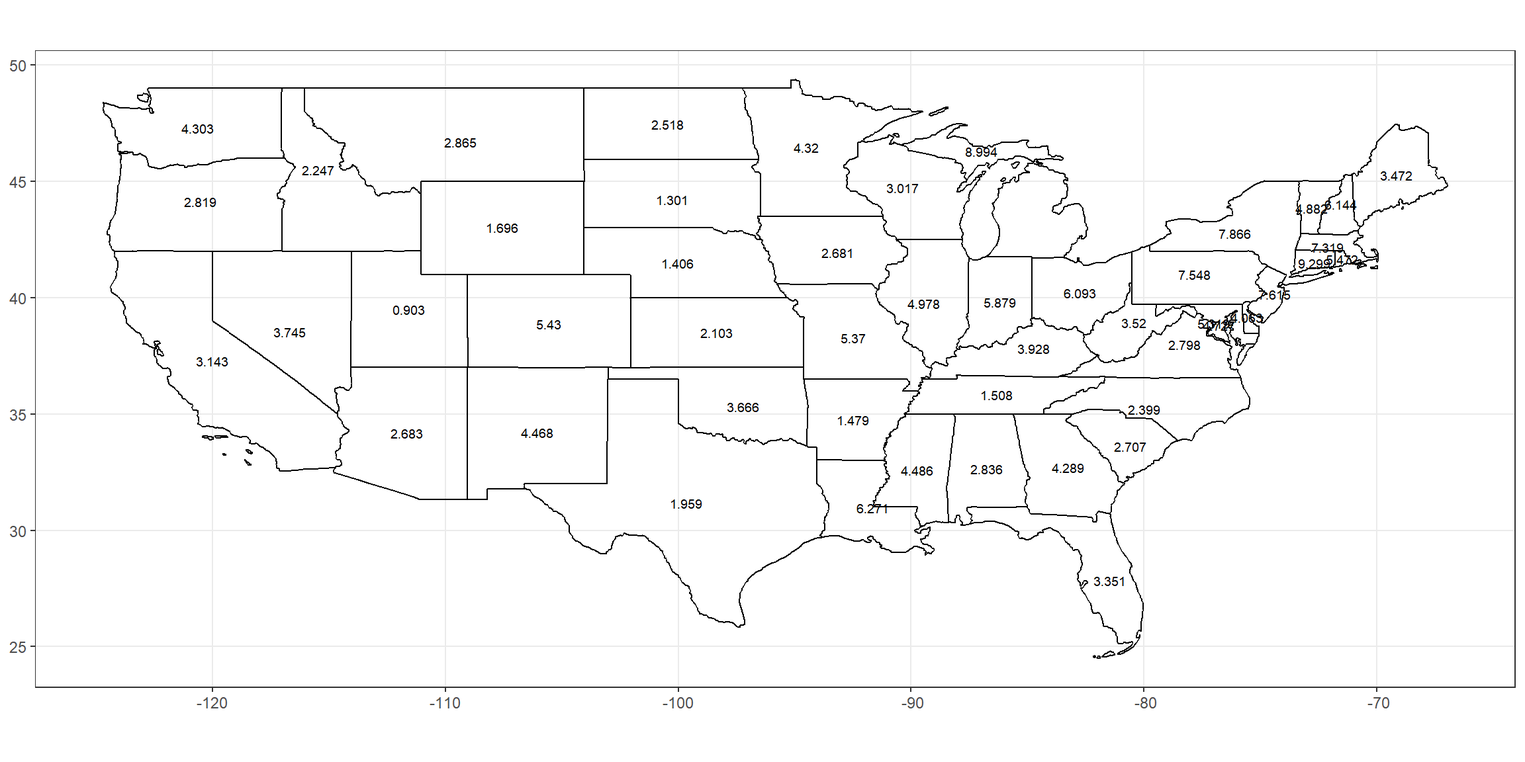
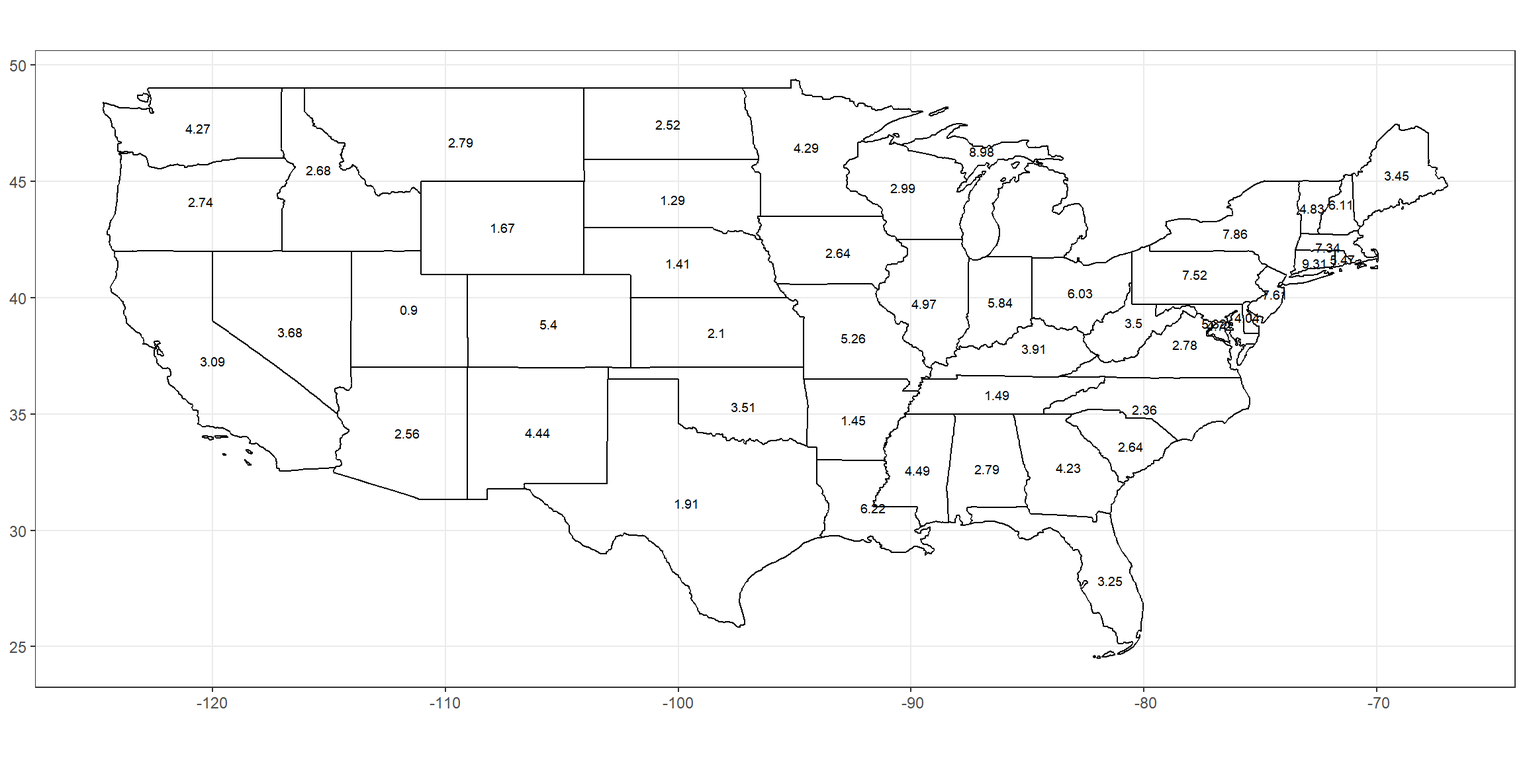
ny update 6/22

diff --git a/ny.html b/ny.html
@@ -11,7 +11,7 @@
 
 
 
-<title>NYTimes</title>
+<title>New York Times</title>
 
 <script src="site_libs/jquery-1.11.3/jquery.min.js"></script>
 <meta name="viewport" content="width=device-width, initial-scale=1" />
@@ -514,90 +514,131 @@ div.tocify {
 
 
 
-<h1 class="title toc-ignore">NYTimes</h1>
+<h1 class="title toc-ignore">New York Times</h1>
 
 </div>
 
 
+<div class="sourceCode" id="cb1"><pre class="sourceCode r"><code class="sourceCode r"><span id="cb1-1"><a href="#cb1-1"></a>tops &lt;-<span class="st"> </span>state <span class="op">%&gt;%</span><span class="st"> </span><span class="kw">filter</span>(state_abbr <span class="op">==</span><span class="st"> </span><span class="kw">c</span>(<span class="st">&quot;NY&quot;</span>, <span class="st">&quot;NJ&quot;</span>, <span class="st">&quot;MA&quot;</span>, <span class="st">&quot;RI&quot;</span>, <span class="st">&quot;CT&quot;</span>))</span>
+<span id="cb1-2"><a href="#cb1-2"></a></span>
+<span id="cb1-3"><a href="#cb1-3"></a>prop_state &lt;-<span class="st"> </span><span class="kw">left_join</span>(state_prop, states, <span class="dt">by =</span> <span class="kw">c</span>(<span class="st">&quot;state&quot;</span>, <span class="st">&quot;state_abbr&quot;</span>)) <span class="op">%&gt;%</span><span class="st"> </span></span>
+<span id="cb1-4"><a href="#cb1-4"></a><span class="st">  </span><span class="kw">filter</span>(date <span class="op">==</span><span class="st"> </span>yesterday) <span class="op">%&gt;%</span><span class="st"> </span></span>
+<span id="cb1-5"><a href="#cb1-5"></a><span class="st">  </span><span class="kw">select</span>(<span class="op">-</span><span class="st"> </span>date) <span class="op">%&gt;%</span><span class="st"> </span></span>
+<span id="cb1-6"><a href="#cb1-6"></a><span class="st">  </span><span class="kw">mutate</span>(<span class="dt">case_pop =</span> <span class="kw">round</span>(<span class="kw">as.numeric</span>(case_pop),<span class="dv">4</span>)) <span class="op">%&gt;%</span><span class="st"> </span></span>
+<span id="cb1-7"><a href="#cb1-7"></a><span class="st">  </span><span class="kw">mutate</span>(<span class="dt">case_death =</span> <span class="kw">round</span>(<span class="kw">as.numeric</span>(case_death),<span class="dv">4</span>)) <span class="op">%&gt;%</span><span class="st"> </span></span>
+<span id="cb1-8"><a href="#cb1-8"></a><span class="st">  </span><span class="kw">mutate</span>(<span class="dt">death_pop =</span> <span class="kw">round</span>(<span class="kw">as.numeric</span>(death_pop),<span class="dv">4</span>)) <span class="op">%&gt;%</span><span class="st"> </span></span>
+<span id="cb1-9"><a href="#cb1-9"></a><span class="st">  </span><span class="kw">mutate</span>(<span class="dt">death_case =</span> <span class="kw">round</span>(<span class="kw">as.numeric</span>(death_case),<span class="dv">4</span>))</span>
+<span id="cb1-10"><a href="#cb1-10"></a></span>
+<span id="cb1-11"><a href="#cb1-11"></a>ny_county_prop &lt;-<span class="st"> </span>county_prop <span class="op">%&gt;%</span><span class="st"> </span><span class="kw">filter</span>(date <span class="op">==</span><span class="st"> </span>yesterday) <span class="op">%&gt;%</span><span class="st"> </span><span class="kw">filter</span>(state_abbr <span class="op">==</span><span class="st"> &quot;NY&quot;</span>)</span>
+<span id="cb1-12"><a href="#cb1-12"></a></span>
+<span id="cb1-13"><a href="#cb1-13"></a>prop_county &lt;-<span class="st"> </span><span class="kw">left_join</span>(ny_county_prop, ny_county, <span class="dt">by =</span> <span class="kw">c</span>(<span class="st">&quot;state&quot;</span>, <span class="st">&quot;state_abbr&quot;</span>, <span class="st">&quot;county&quot;</span>)) <span class="op">%&gt;%</span><span class="st"> </span></span>
+<span id="cb1-14"><a href="#cb1-14"></a><span class="st">  </span><span class="kw">select</span>(<span class="op">-</span><span class="st"> </span>date, <span class="op">-</span><span class="st"> </span>state_abbr) <span class="op">%&gt;%</span><span class="st"> </span></span>
+<span id="cb1-15"><a href="#cb1-15"></a><span class="st">  </span><span class="kw">mutate</span>(<span class="dt">case_pop =</span> <span class="kw">round</span>(<span class="kw">as.numeric</span>(case_pop),<span class="dv">4</span>)) <span class="op">%&gt;%</span><span class="st"> </span></span>
+<span id="cb1-16"><a href="#cb1-16"></a><span class="st">  </span><span class="kw">mutate</span>(<span class="dt">case_death =</span> <span class="kw">round</span>(<span class="kw">as.numeric</span>(case_death),<span class="dv">4</span>)) <span class="op">%&gt;%</span><span class="st"> </span></span>
+<span id="cb1-17"><a href="#cb1-17"></a><span class="st">  </span><span class="kw">mutate</span>(<span class="dt">death_pop =</span> <span class="kw">round</span>(<span class="kw">as.numeric</span>(death_pop),<span class="dv">4</span>)) <span class="op">%&gt;%</span><span class="st"> </span></span>
+<span id="cb1-18"><a href="#cb1-18"></a><span class="st">  </span><span class="kw">mutate</span>(<span class="dt">death_case =</span> <span class="kw">round</span>(<span class="kw">as.numeric</span>(death_case),<span class="dv">4</span>))</span></code></pre></div>
 <div id="find-distribution" class="section level2">
 <h2>Find Distribution</h2>
-<div class="sourceCode" id="cb1"><pre class="sourceCode r"><code class="sourceCode r"><span id="cb1-1"><a href="#cb1-1"></a><span class="kw">ggplot</span>(<span class="dt">data =</span> state) <span class="op">+</span><span class="st"> </span></span>
-<span id="cb1-2"><a href="#cb1-2"></a><span class="st">  </span><span class="kw">geom_col</span>(<span class="kw">aes</span>(<span class="dt">x =</span> state, <span class="dt">y =</span> cases<span class="op">/</span>pop)) <span class="op">+</span><span class="st">  </span></span>
-<span id="cb1-3"><a href="#cb1-3"></a><span class="st">  </span><span class="kw">coord_flip</span>() <span class="op">+</span><span class="st"> </span></span>
-<span id="cb1-4"><a href="#cb1-4"></a><span class="st">  </span><span class="kw">theme_bw</span>()</span></code></pre></div>
-<p><img src="ny_files/figure-html/find_top_complete-1.png" width="1152" /></p>
 <div class="sourceCode" id="cb2"><pre class="sourceCode r"><code class="sourceCode r"><span id="cb2-1"><a href="#cb2-1"></a><span class="kw">ggplot</span>(<span class="dt">data =</span> state) <span class="op">+</span><span class="st"> </span></span>
-<span id="cb2-2"><a href="#cb2-2"></a><span class="st">  </span><span class="kw">geom_col</span>(<span class="kw">aes</span>(<span class="dt">x =</span> state, <span class="dt">y =</span> deaths<span class="op">/</span>pop)) <span class="op">+</span><span class="st"> </span></span>
+<span id="cb2-2"><a href="#cb2-2"></a><span class="st">  </span><span class="kw">geom_col</span>(<span class="kw">aes</span>(<span class="dt">x =</span> state, <span class="dt">y =</span> cases<span class="op">/</span>pop)) <span class="op">+</span><span class="st">  </span></span>
 <span id="cb2-3"><a href="#cb2-3"></a><span class="st">  </span><span class="kw">coord_flip</span>() <span class="op">+</span><span class="st"> </span></span>
 <span id="cb2-4"><a href="#cb2-4"></a><span class="st">  </span><span class="kw">theme_bw</span>()</span></code></pre></div>
+<p><img src="ny_files/figure-html/find_top_complete-1.png" width="1152" /></p>
+<div class="sourceCode" id="cb3"><pre class="sourceCode r"><code class="sourceCode r"><span id="cb3-1"><a href="#cb3-1"></a><span class="kw">ggplot</span>(<span class="dt">data =</span> state) <span class="op">+</span><span class="st"> </span></span>
+<span id="cb3-2"><a href="#cb3-2"></a><span class="st">  </span><span class="kw">geom_col</span>(<span class="kw">aes</span>(<span class="dt">x =</span> state, <span class="dt">y =</span> deaths<span class="op">/</span>pop)) <span class="op">+</span><span class="st"> </span></span>
+<span id="cb3-3"><a href="#cb3-3"></a><span class="st">  </span><span class="kw">coord_flip</span>() <span class="op">+</span><span class="st"> </span></span>
+<span id="cb3-4"><a href="#cb3-4"></a><span class="st">  </span><span class="kw">theme_bw</span>()</span></code></pre></div>
 <p><img src="ny_files/figure-html/find_top_complete-2.png" width="1152" /></p>
 <p>These plots visualize the top five states with covid cases and deaths per population.</p>
 </div>
 <div id="top-5-states" class="section level2">
 <h2>Top 5 states</h2>
 <p>The top five states are Connecticut, Massachusetts, New Jersey, New York and Rhode Island.</p>
-<div class="sourceCode" id="cb3"><pre class="sourceCode r"><code class="sourceCode r"><span id="cb3-1"><a href="#cb3-1"></a><span class="kw">ggplot</span>(<span class="dt">data =</span> tops, <span class="kw">aes</span>(<span class="dt">x =</span> date, <span class="dt">y =</span> cases, <span class="dt">color =</span> state)) <span class="op">+</span></span>
-<span id="cb3-2"><a href="#cb3-2"></a><span class="st">  </span><span class="kw">geom_line</span>() <span class="op">+</span><span class="st"> </span></span>
-<span id="cb3-3"><a href="#cb3-3"></a><span class="st">  </span><span class="kw">geom_point</span>(<span class="kw">aes</span>(<span class="dt">size =</span> <span class="st">`</span><span class="dt">pop/mil</span><span class="st">`</span>)) <span class="op">+</span><span class="st"> </span></span>
-<span id="cb3-4"><a href="#cb3-4"></a><span class="st">  </span><span class="kw">theme_bw</span>()</span></code></pre></div>
-<p><img src="ny_files/figure-html/top_5a-1.png" width="1152" /></p>
-<p>This plot shows cases with respect to date. It is colored by state and points are sized by million population.</p>
-<div class="sourceCode" id="cb4"><pre class="sourceCode r"><code class="sourceCode r"><span id="cb4-1"><a href="#cb4-1"></a><span class="kw">ggplot</span>(<span class="dt">data =</span> tops, <span class="kw">aes</span>(<span class="dt">x =</span> date, <span class="dt">y =</span> deaths, <span class="dt">color =</span> state)) <span class="op">+</span></span>
+<div class="sourceCode" id="cb4"><pre class="sourceCode r"><code class="sourceCode r"><span id="cb4-1"><a href="#cb4-1"></a><span class="kw">ggplot</span>(<span class="dt">data =</span> tops, <span class="kw">aes</span>(<span class="dt">x =</span> date, <span class="dt">y =</span> cases, <span class="dt">color =</span> state)) <span class="op">+</span></span>
 <span id="cb4-2"><a href="#cb4-2"></a><span class="st">  </span><span class="kw">geom_line</span>() <span class="op">+</span><span class="st"> </span></span>
 <span id="cb4-3"><a href="#cb4-3"></a><span class="st">  </span><span class="kw">geom_point</span>(<span class="kw">aes</span>(<span class="dt">size =</span> <span class="st">`</span><span class="dt">pop/mil</span><span class="st">`</span>)) <span class="op">+</span><span class="st"> </span></span>
 <span id="cb4-4"><a href="#cb4-4"></a><span class="st">  </span><span class="kw">theme_bw</span>()</span></code></pre></div>
+<p><img src="ny_files/figure-html/top_5a-1.png" width="1152" /></p>
+<p>This plot shows cases with respect to date. It is colored by state and points are sized by million population.</p>
+<div class="sourceCode" id="cb5"><pre class="sourceCode r"><code class="sourceCode r"><span id="cb5-1"><a href="#cb5-1"></a><span class="kw">ggplot</span>(<span class="dt">data =</span> tops, <span class="kw">aes</span>(<span class="dt">x =</span> date, <span class="dt">y =</span> deaths, <span class="dt">color =</span> state)) <span class="op">+</span></span>
+<span id="cb5-2"><a href="#cb5-2"></a><span class="st">  </span><span class="kw">geom_line</span>() <span class="op">+</span><span class="st"> </span></span>
+<span id="cb5-3"><a href="#cb5-3"></a><span class="st">  </span><span class="kw">geom_point</span>(<span class="kw">aes</span>(<span class="dt">size =</span> <span class="st">`</span><span class="dt">pop/mil</span><span class="st">`</span>)) <span class="op">+</span><span class="st"> </span></span>
+<span id="cb5-4"><a href="#cb5-4"></a><span class="st">  </span><span class="kw">theme_bw</span>()</span></code></pre></div>
 <p><img src="ny_files/figure-html/top_5b-1.png" width="1152" /></p>
 <p>This plot shows deaths with respect to date. It is colored by state and points are sized by million population.</p>
 </div>
 <div id="maps" class="section level2">
 <h2>Maps</h2>
-<div class="sourceCode" id="cb5"><pre class="sourceCode r"><code class="sourceCode r"><span id="cb5-1"><a href="#cb5-1"></a><span class="kw">ggplot</span>(<span class="dt">data =</span> prop_state) <span class="op">+</span></span>
-<span id="cb5-2"><a href="#cb5-2"></a><span class="st">  </span><span class="kw">geom_sf</span>(<span class="kw">aes</span>(<span class="dt">geometry =</span> geometry), <span class="dt">fill =</span> <span class="ot">NA</span>,  <span class="dt">color =</span> <span class="st">&quot;Black&quot;</span>) <span class="op">+</span></span>
-<span id="cb5-3"><a href="#cb5-3"></a><span class="st">  </span><span class="kw">guides</span>(<span class="dt">color =</span> <span class="ot">FALSE</span>) <span class="op">+</span><span class="st"> </span></span>
-<span id="cb5-4"><a href="#cb5-4"></a><span class="st">  </span><span class="kw">geom_text</span>(<span class="kw">aes</span>(<span class="dt">label =</span> (<span class="kw">as.numeric</span>(case_pop)<span class="op">*</span><span class="dv">100</span>), <span class="dt">geometry =</span> geometry), <span class="dt">stat =</span> <span class="st">&quot;sf_coordinates&quot;</span>, <span class="dt">color =</span> <span class="st">&quot;black&quot;</span>, <span class="dt">size =</span> <span class="fl">2.5</span>) <span class="op">+</span></span>
-<span id="cb5-5"><a href="#cb5-5"></a><span class="st">  </span><span class="kw">theme_bw</span>() <span class="op">+</span></span>
-<span id="cb5-6"><a href="#cb5-6"></a><span class="st">  </span><span class="kw">theme</span>(<span class="dt">axis.title.x=</span><span class="kw">element_blank</span>(), <span class="dt">axis.title.y=</span><span class="kw">element_blank</span>())</span></code></pre></div>
-<p><img src="ny_files/figure-html/mappinga-1.png" width="1152" /></p>
-<p>This plot shows the percent of the population that has tested positive for COVID-19.</p>
 <div class="sourceCode" id="cb6"><pre class="sourceCode r"><code class="sourceCode r"><span id="cb6-1"><a href="#cb6-1"></a><span class="kw">ggplot</span>(<span class="dt">data =</span> prop_state) <span class="op">+</span></span>
 <span id="cb6-2"><a href="#cb6-2"></a><span class="st">  </span><span class="kw">geom_sf</span>(<span class="kw">aes</span>(<span class="dt">geometry =</span> geometry), <span class="dt">fill =</span> <span class="ot">NA</span>,  <span class="dt">color =</span> <span class="st">&quot;Black&quot;</span>) <span class="op">+</span></span>
 <span id="cb6-3"><a href="#cb6-3"></a><span class="st">  </span><span class="kw">guides</span>(<span class="dt">color =</span> <span class="ot">FALSE</span>) <span class="op">+</span><span class="st"> </span></span>
-<span id="cb6-4"><a href="#cb6-4"></a><span class="st">  </span><span class="kw">geom_text</span>(<span class="kw">aes</span>(<span class="dt">label =</span> (<span class="kw">as.numeric</span>(death_pop)<span class="op">*</span><span class="dv">100</span>), <span class="dt">geometry =</span> geometry), <span class="dt">stat =</span> <span class="st">&quot;sf_coordinates&quot;</span>, <span class="dt">color =</span> <span class="st">&quot;black&quot;</span>, <span class="dt">size =</span> <span class="fl">2.5</span>) <span class="op">+</span></span>
+<span id="cb6-4"><a href="#cb6-4"></a><span class="st">  </span><span class="kw">geom_text</span>(<span class="kw">aes</span>(<span class="dt">label =</span> (<span class="kw">as.numeric</span>(case_pop)<span class="op">*</span><span class="dv">100</span>), <span class="dt">geometry =</span> geometry), <span class="dt">stat =</span> <span class="st">&quot;sf_coordinates&quot;</span>, <span class="dt">color =</span> <span class="st">&quot;black&quot;</span>, <span class="dt">size =</span> <span class="fl">2.5</span>) <span class="op">+</span></span>
 <span id="cb6-5"><a href="#cb6-5"></a><span class="st">  </span><span class="kw">theme_bw</span>() <span class="op">+</span></span>
 <span id="cb6-6"><a href="#cb6-6"></a><span class="st">  </span><span class="kw">theme</span>(<span class="dt">axis.title.x=</span><span class="kw">element_blank</span>(), <span class="dt">axis.title.y=</span><span class="kw">element_blank</span>())</span></code></pre></div>
-<p><img src="ny_files/figure-html/mappingb-1.png" width="1152" /></p>
-<p>This plot shows the percent of the population that has died for COVID-19.</p>
-</div>
-<div id="cases-per-death" class="section level2">
-<h2>Cases Per Death</h2>
+<p><img src="ny_files/figure-html/mappinga-1.png" width="1152" /></p>
+<p>This plot shows the percent of the population that has tested positive for COVID-19.</p>
 <div class="sourceCode" id="cb7"><pre class="sourceCode r"><code class="sourceCode r"><span id="cb7-1"><a href="#cb7-1"></a><span class="kw">ggplot</span>(<span class="dt">data =</span> prop_state) <span class="op">+</span></span>
 <span id="cb7-2"><a href="#cb7-2"></a><span class="st">  </span><span class="kw">geom_sf</span>(<span class="kw">aes</span>(<span class="dt">geometry =</span> geometry), <span class="dt">fill =</span> <span class="ot">NA</span>,  <span class="dt">color =</span> <span class="st">&quot;Black&quot;</span>) <span class="op">+</span></span>
 <span id="cb7-3"><a href="#cb7-3"></a><span class="st">  </span><span class="kw">guides</span>(<span class="dt">color =</span> <span class="ot">FALSE</span>) <span class="op">+</span><span class="st"> </span></span>
-<span id="cb7-4"><a href="#cb7-4"></a><span class="st">  </span><span class="kw">geom_text</span>(<span class="kw">aes</span>(<span class="dt">label =</span> (<span class="kw">as.numeric</span>(death_case)<span class="op">*</span><span class="dv">100</span>), <span class="dt">geometry =</span> geometry), <span class="dt">stat =</span> <span class="st">&quot;sf_coordinates&quot;</span>, <span class="dt">color =</span> <span class="st">&quot;black&quot;</span>, <span class="dt">size =</span> <span class="fl">2.5</span>) <span class="op">+</span></span>
+<span id="cb7-4"><a href="#cb7-4"></a><span class="st">  </span><span class="kw">geom_text</span>(<span class="kw">aes</span>(<span class="dt">label =</span> (<span class="kw">as.numeric</span>(death_pop)<span class="op">*</span><span class="dv">100</span>), <span class="dt">geometry =</span> geometry), <span class="dt">stat =</span> <span class="st">&quot;sf_coordinates&quot;</span>, <span class="dt">color =</span> <span class="st">&quot;black&quot;</span>, <span class="dt">size =</span> <span class="fl">2.5</span>) <span class="op">+</span></span>
 <span id="cb7-5"><a href="#cb7-5"></a><span class="st">  </span><span class="kw">theme_bw</span>() <span class="op">+</span></span>
 <span id="cb7-6"><a href="#cb7-6"></a><span class="st">  </span><span class="kw">theme</span>(<span class="dt">axis.title.x=</span><span class="kw">element_blank</span>(), <span class="dt">axis.title.y=</span><span class="kw">element_blank</span>())</span></code></pre></div>
-<p><img src="ny_files/figure-html/mappingc-1.png" width="1152" /></p>
-<p>This plot shows the percent of the people that test positive die from COVID-19.</p>
-<div class="sourceCode" id="cb8"><pre class="sourceCode r"><code class="sourceCode r"><span id="cb8-1"><a href="#cb8-1"></a><span class="kw">ggplot</span>(<span class="dt">data =</span> us, <span class="kw">aes</span>(<span class="dt">x =</span> cases<span class="op">/</span><span class="dv">1000</span>, <span class="dt">y =</span> deaths<span class="op">/</span><span class="dv">1000</span>)) <span class="op">+</span><span class="st"> </span></span>
-<span id="cb8-2"><a href="#cb8-2"></a><span class="st">  </span><span class="kw">geom_smooth</span>(<span class="dt">color =</span> <span class="st">&quot;black&quot;</span>, <span class="dt">size =</span> <span class="fl">1.5</span>, <span class="dt">method =</span> <span class="st">&quot;loess&quot;</span>, <span class="dt">formula =</span> y <span class="op">~</span><span class="st"> </span>x) <span class="op">+</span></span>
-<span id="cb8-3"><a href="#cb8-3"></a><span class="st">  </span><span class="kw">geom_jitter</span>(<span class="kw">aes</span>(<span class="dt">color =</span> month)) <span class="op">+</span></span>
-<span id="cb8-4"><a href="#cb8-4"></a><span class="st">  </span><span class="kw">theme_bw</span>()</span></code></pre></div>
-<p><img src="ny_files/figure-html/case/death-1.png" width="1152" /></p>
-<p>This plot shows how the cases and deaths relate and compare. I divided both cases and deaths by 1000 so its per thousand cases and per thousand deaths.</p>
-</div>
-<div id="new-york" class="section level2">
-<h2>New York</h2>
+<p><img src="ny_files/figure-html/mappingb-1.png" width="1152" /></p>
+<p>This plot shows the percent of the population that has died for COVID-19.</p>
+<div id="new-york" class="section level3">
+<h3>New York</h3>
+<div class="sourceCode" id="cb8"><pre class="sourceCode r"><code class="sourceCode r"><span id="cb8-1"><a href="#cb8-1"></a><span class="kw">ggplot</span>(<span class="dt">data =</span> prop_county) <span class="op">+</span></span>
+<span id="cb8-2"><a href="#cb8-2"></a><span class="st">  </span><span class="kw">geom_sf</span>(<span class="kw">aes</span>(<span class="dt">geometry =</span> geometry), <span class="dt">fill =</span> <span class="ot">NA</span>,  <span class="dt">color =</span> <span class="st">&quot;Black&quot;</span>) <span class="op">+</span></span>
+<span id="cb8-3"><a href="#cb8-3"></a><span class="st">  </span><span class="kw">guides</span>(<span class="dt">color =</span> <span class="ot">FALSE</span>) <span class="op">+</span><span class="st"> </span></span>
+<span id="cb8-4"><a href="#cb8-4"></a><span class="st">  </span><span class="kw">geom_text</span>(<span class="kw">aes</span>(<span class="dt">label =</span> (<span class="kw">as.numeric</span>(case_pop)<span class="op">*</span><span class="dv">100</span>), <span class="dt">geometry =</span> geometry), </span>
+<span id="cb8-5"><a href="#cb8-5"></a>            <span class="dt">stat =</span> <span class="st">&quot;sf_coordinates&quot;</span>, <span class="dt">color =</span> <span class="st">&quot;black&quot;</span>, <span class="dt">size =</span> <span class="dv">2</span>) <span class="op">+</span></span>
+<span id="cb8-6"><a href="#cb8-6"></a><span class="st">  </span><span class="kw">theme_bw</span>() <span class="op">+</span><span class="st"> </span></span>
+<span id="cb8-7"><a href="#cb8-7"></a><span class="st">  </span><span class="kw">theme</span>(<span class="dt">axis.title.x=</span><span class="kw">element_blank</span>(), <span class="dt">axis.title.y=</span><span class="kw">element_blank</span>())</span></code></pre></div>
+<p><img src="ny_files/figure-html/newyorka-1.png" width="1152" /></p>
+<p>This plot shows the percent of the population that has tested positive for COVID-19 in the counties of New York.</p>
 <div class="sourceCode" id="cb9"><pre class="sourceCode r"><code class="sourceCode r"><span id="cb9-1"><a href="#cb9-1"></a><span class="kw">ggplot</span>(<span class="dt">data =</span> prop_county) <span class="op">+</span></span>
 <span id="cb9-2"><a href="#cb9-2"></a><span class="st">  </span><span class="kw">geom_sf</span>(<span class="kw">aes</span>(<span class="dt">geometry =</span> geometry), <span class="dt">fill =</span> <span class="ot">NA</span>,  <span class="dt">color =</span> <span class="st">&quot;Black&quot;</span>) <span class="op">+</span></span>
 <span id="cb9-3"><a href="#cb9-3"></a><span class="st">  </span><span class="kw">guides</span>(<span class="dt">color =</span> <span class="ot">FALSE</span>) <span class="op">+</span><span class="st"> </span></span>
-<span id="cb9-4"><a href="#cb9-4"></a><span class="st">  </span><span class="kw">geom_text</span>(<span class="kw">aes</span>(<span class="dt">label =</span> (<span class="kw">as.numeric</span>(case_pop)<span class="op">*</span><span class="dv">100</span>), <span class="dt">geometry =</span> geometry), <span class="dt">stat =</span> <span class="st">&quot;sf_coordinates&quot;</span>, <span class="dt">color =</span> <span class="st">&quot;black&quot;</span>, <span class="dt">size =</span> <span class="dv">2</span>) <span class="op">+</span></span>
-<span id="cb9-5"><a href="#cb9-5"></a><span class="st">  </span><span class="kw">theme_bw</span>() <span class="op">+</span></span>
-<span id="cb9-6"><a href="#cb9-6"></a><span class="st">  </span><span class="kw">theme</span>(<span class="dt">axis.title.x=</span><span class="kw">element_blank</span>(), <span class="dt">axis.title.y=</span><span class="kw">element_blank</span>())</span></code></pre></div>
-<p><img src="ny_files/figure-html/newyorka-1.png" width="1152" /></p>
+<span id="cb9-4"><a href="#cb9-4"></a><span class="st">  </span><span class="kw">geom_text</span>(<span class="kw">aes</span>(<span class="dt">label =</span> (<span class="kw">as.numeric</span>(death_pop)<span class="op">*</span><span class="dv">100</span>), <span class="dt">geometry =</span> geometry), </span>
+<span id="cb9-5"><a href="#cb9-5"></a>            <span class="dt">stat =</span> <span class="st">&quot;sf_coordinates&quot;</span>, <span class="dt">color =</span> <span class="st">&quot;black&quot;</span>, <span class="dt">size =</span> <span class="dv">2</span>) <span class="op">+</span></span>
+<span id="cb9-6"><a href="#cb9-6"></a><span class="st">  </span><span class="kw">theme_bw</span>() <span class="op">+</span><span class="st"> </span></span>
+<span id="cb9-7"><a href="#cb9-7"></a><span class="st">  </span><span class="kw">theme</span>(<span class="dt">axis.title.x=</span><span class="kw">element_blank</span>(), <span class="dt">axis.title.y=</span><span class="kw">element_blank</span>())</span></code></pre></div>
+<p><img src="ny_files/figure-html/newyorkb-1.png" width="1152" /></p>
+<p>This plot shows the percent of the population that has died for COVID-19 in the counties of New York.</p>
+</div>
+</div>
+<div id="cases-per-death" class="section level2">
+<h2>Cases Per Death</h2>
+<div class="sourceCode" id="cb10"><pre class="sourceCode r"><code class="sourceCode r"><span id="cb10-1"><a href="#cb10-1"></a><span class="kw">ggplot</span>(<span class="dt">data =</span> prop_state) <span class="op">+</span></span>
+<span id="cb10-2"><a href="#cb10-2"></a><span class="st">  </span><span class="kw">geom_sf</span>(<span class="kw">aes</span>(<span class="dt">geometry =</span> geometry), <span class="dt">fill =</span> <span class="ot">NA</span>,  <span class="dt">color =</span> <span class="st">&quot;Black&quot;</span>) <span class="op">+</span></span>
+<span id="cb10-3"><a href="#cb10-3"></a><span class="st">  </span><span class="kw">guides</span>(<span class="dt">color =</span> <span class="ot">FALSE</span>) <span class="op">+</span><span class="st"> </span></span>
+<span id="cb10-4"><a href="#cb10-4"></a><span class="st">  </span><span class="kw">geom_text</span>(<span class="kw">aes</span>(<span class="dt">label =</span> (<span class="kw">as.numeric</span>(death_case)<span class="op">*</span><span class="dv">100</span>), <span class="dt">geometry =</span> geometry), <span class="dt">stat =</span> <span class="st">&quot;sf_coordinates&quot;</span>, <span class="dt">color =</span> <span class="st">&quot;black&quot;</span>, <span class="dt">size =</span> <span class="fl">2.5</span>) <span class="op">+</span></span>
+<span id="cb10-5"><a href="#cb10-5"></a><span class="st">  </span><span class="kw">theme_bw</span>() <span class="op">+</span></span>
+<span id="cb10-6"><a href="#cb10-6"></a><span class="st">  </span><span class="kw">theme</span>(<span class="dt">axis.title.x=</span><span class="kw">element_blank</span>(), <span class="dt">axis.title.y=</span><span class="kw">element_blank</span>())</span></code></pre></div>
+<p><img src="ny_files/figure-html/mappingc-1.png" width="1152" /></p>
+<p>This plot shows the percent of the people that test positive die from COVID-19.</p>
+<div class="sourceCode" id="cb11"><pre class="sourceCode r"><code class="sourceCode r"><span id="cb11-1"><a href="#cb11-1"></a><span class="kw">ggplot</span>(<span class="dt">data=</span>us, <span class="kw">aes</span>(<span class="dt">x =</span> cases<span class="op">/</span><span class="dv">1000</span>, <span class="dt">y =</span> deaths<span class="op">/</span><span class="dv">1000</span>)) <span class="op">+</span><span class="st"> </span></span>
+<span id="cb11-2"><a href="#cb11-2"></a><span class="st">  </span><span class="kw">geom_smooth</span>(<span class="dt">color =</span> <span class="st">&quot;black&quot;</span>, <span class="dt">size =</span> <span class="fl">1.5</span>, <span class="dt">method =</span> <span class="st">&quot;loess&quot;</span>, <span class="dt">formula =</span> y <span class="op">~</span><span class="st"> </span>x) <span class="op">+</span></span>
+<span id="cb11-3"><a href="#cb11-3"></a><span class="st">  </span><span class="kw">geom_jitter</span>(<span class="dt">color =</span> <span class="st">&quot;blue&quot;</span>, <span class="dt">size =</span> <span class="fl">.75</span>) <span class="op">+</span></span>
+<span id="cb11-4"><a href="#cb11-4"></a><span class="st">  </span><span class="kw">theme_bw</span>()</span></code></pre></div>
+<p><img src="ny_files/figure-html/case/death-1.png" width="1152" /></p>
+<p>This plot shows how the cases and deaths relate and compare. I divided both cases and deaths by 1000 so its per thousand cases and per thousand deaths.</p>
+<div id="new-york-1" class="section level3">
+<h3>New York</h3>
+<div class="sourceCode" id="cb12"><pre class="sourceCode r"><code class="sourceCode r"><span id="cb12-1"><a href="#cb12-1"></a><span class="kw">ggplot</span>(<span class="dt">data =</span> prop_county) <span class="op">+</span></span>
+<span id="cb12-2"><a href="#cb12-2"></a><span class="st">  </span><span class="kw">geom_sf</span>(<span class="kw">aes</span>(<span class="dt">geometry =</span> geometry), <span class="dt">fill =</span> <span class="ot">NA</span>,  <span class="dt">color =</span> <span class="st">&quot;Black&quot;</span>) <span class="op">+</span></span>
+<span id="cb12-3"><a href="#cb12-3"></a><span class="st">  </span><span class="kw">guides</span>(<span class="dt">color =</span> <span class="ot">FALSE</span>) <span class="op">+</span><span class="st"> </span></span>
+<span id="cb12-4"><a href="#cb12-4"></a><span class="st">  </span><span class="kw">geom_text</span>(<span class="kw">aes</span>(<span class="dt">label =</span> (<span class="kw">as.numeric</span>(death_case)<span class="op">*</span><span class="dv">100</span>), <span class="dt">geometry =</span> geometry), </span>
+<span id="cb12-5"><a href="#cb12-5"></a>            <span class="dt">stat =</span> <span class="st">&quot;sf_coordinates&quot;</span>, <span class="dt">color =</span> <span class="st">&quot;black&quot;</span>, <span class="dt">size =</span> <span class="dv">2</span>) <span class="op">+</span></span>
+<span id="cb12-6"><a href="#cb12-6"></a><span class="st">  </span><span class="kw">theme_bw</span>() <span class="op">+</span><span class="st"> </span></span>
+<span id="cb12-7"><a href="#cb12-7"></a><span class="st">  </span><span class="kw">theme</span>(<span class="dt">axis.title.x=</span><span class="kw">element_blank</span>(), <span class="dt">axis.title.y=</span><span class="kw">element_blank</span>())</span></code></pre></div>
+<p><img src="ny_files/figure-html/newyorkc-1.png" width="1152" /></p>
+<p>This plot shows the percent of the people that test positive die from COVID-19 in the counties of New York.</p>
 <p><br /><br /></p>
-<div class="sourceCode" id="cb10"><pre class="sourceCode r"><code class="sourceCode r"><span id="cb10-1"><a href="#cb10-1"></a><span class="kw">print</span>(<span class="kw">paste</span>(<span class="st">&quot;Last updated:&quot;</span>, </span>
-<span id="cb10-2"><a href="#cb10-2"></a>  <span class="kw">format</span>(<span class="kw">Sys.Date</span>(), <span class="st">&quot;%b %d %Y&quot;</span>)))</span></code></pre></div>
-<pre><code>## [1] &quot;Last updated: Jun 21 2020&quot;</code></pre>
+<div class="sourceCode" id="cb13"><pre class="sourceCode r"><code class="sourceCode r"><span id="cb13-1"><a href="#cb13-1"></a><span class="kw">print</span>(<span class="kw">paste</span>(<span class="st">&quot;Last updated:&quot;</span>, </span>
+<span id="cb13-2"><a href="#cb13-2"></a>  <span class="kw">format</span>(<span class="kw">Sys.Date</span>(), <span class="st">&quot;%b %d %Y&quot;</span>)))</span></code></pre></div>
+<pre><code>## [1] &quot;Last updated: Jun 22 2020&quot;</code></pre>
+</div>
 </div>
 
 

diff --git a/index.html b/index.html
@@ -538,44 +538,44 @@ div.tocify {
 </thead>
 <tbody>
 <tr class="odd">
-<td align="left">2020-06-11</td>
-<td align="right">2034118</td>
-<td align="right">113974</td>
-</tr>
-<tr class="even">
-<td align="left">2020-06-12</td>
-<td align="right">2059588</td>
-<td align="right">114752</td>
-</tr>
-<tr class="odd">
-<td align="left">2020-06-13</td>
-<td align="right">2084923</td>
-<td align="right">115445</td>
-</tr>
-<tr class="even">
 <td align="left">2020-06-14</td>
-<td align="right">2103991</td>
+<td align="right">2104007</td>
 <td align="right">115762</td>
 </tr>
-<tr class="odd">
+<tr class="even">
 <td align="left">2020-06-15</td>
-<td align="right">2124087</td>
+<td align="right">2124113</td>
 <td align="right">116210</td>
 </tr>
-<tr class="even">
+<tr class="odd">
 <td align="left">2020-06-16</td>
-<td align="right">2148918</td>
+<td align="right">2148951</td>
 <td align="right">116979</td>
 </tr>
-<tr class="odd">
+<tr class="even">
 <td align="left">2020-06-17</td>
-<td align="right">2174524</td>
-<td align="right">117743</td>
+<td align="right">2174570</td>
+<td align="right">117740</td>
+</tr>
+<tr class="odd">
+<td align="left">2020-06-18</td>
+<td align="right">2202587</td>
+<td align="right">118467</td>
 </tr>
 <tr class="even">
-<td align="left">2020-06-18</td>
-<td align="right">2201399</td>
-<td align="right">118458</td>
+<td align="left">2020-06-19</td>
+<td align="right">2233395</td>
+<td align="right">119165</td>
+</tr>
+<tr class="odd">
+<td align="left">2020-06-20</td>
+<td align="right">2265362</td>
+<td align="right">119710</td>
+</tr>
+<tr class="even">
+<td align="left">2020-06-21</td>
+<td align="right">2291735</td>
+<td align="right">119985</td>
 </tr>
 </tbody>
 </table>
